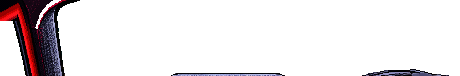
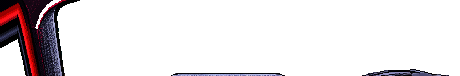
Fúria F4: retrovisor esquerdo por fora (coluna e porta na frente dele); preparação redesenhada para toque (cartões de vaga em duas colunas, barra com setas e botão grandes) (v0.36.0)
Claude-Session: https://claude.ai/code/session_01MLD9VR7gkmY4w6a9beZcp6

Changed region(s): [[0.0, 0.2632, 0.0609, 0.6316]]

diff --git a/src/careerScreens.ts b/src/careerScreens.ts
@@ -348,7 +348,13 @@ function tapGarage(s: AppState, a: Actions, x: number, y: number) {
 // ---------- preparação: peças aftermarket (tuning.ts) ----------
 // Cada linha é uma vaga (pistões, comando, alimentação, indução, escapamento, pneus, suspensão); as
 // setas trocam a peça em vista (a foto, a ficha e o ronco já mostram como fica) e o botão compra/instala.
-const prepRows = (n: number) => Array.from({ length: n }, (_, i): Rect => ({ x: ox() + 4, y: 107 + i * 10.3, w: SAFE_W - 8, h: 9.6 }));
+// toque: as vagas são cartões grandes em duas colunas (tocar escolhe a vaga); a peça da vaga escolhida
+// troca numa barra só, com setas e botão de comprar grandes
+const prepRows = (n: number) => Array.from({ length: n }, (_, i): Rect => ({ x: ox() + 4 + (i % 2) * 158, y: 121 + Math.floor(i / 2) * 17.6, w: 154, h: 16.2 }));
+const prepBar = () => {
+  const x = ox();
+  return { prev: { x: x + 4, y: 97, w: 30, h: 21 } as Rect, next: { x: x + 172, y: 97, w: 30, h: 21 } as Rect, name: { x: x + 36, y: 97, w: 134, h: 21 } as Rect, buy: { x: x + 206, y: 97, w: 110, h: 21 } as Rect };
+};
 const prepButtons = () => {
   const x = ox();
   return { back: { x: x + 4, y: 211, w: 100, h: 15 }, rev: { x: x + 110, y: 211, w: 100, h: 15 }, stock: { x: x + 216, y: 211, w: 100, h: 15 } };
@@ -378,13 +384,13 @@ function drawPrep(c: CanvasRenderingContext2D, s: AppState, car: CarSpec) {
   kicker(c, 'PREPARAÇÃO', x + 4, 20, RED, '#fff');
   headline(c, car.name.toUpperCase(), x + 4, 33, 8, INK);
   classBadge(c, x + 150, 32, view, true, 9);
-  const ph: Rect = { x: x + 4, y: 46, w: 198, h: 58 };
+  const ph: Rect = { x: x + 4, y: 46, w: 198, h: 46 };
   photo(c, ph, () => {
     // lateral, traseira e frente: o rebaixamento aparece nas três
-    drawCarSide(c, ph.x + 1, ph.y + 54, 104, view, paintHex(car.id));
+    drawCarSide(c, ph.x + 1, ph.y + 43, 104, view, paintHex(car.id));
     const look = { color: car.color, rear: car.rear, paint: paintHex(car.id), drop: view.rideDrop };
-    drawCar(c, ph.x + 120, ph.y + 54, 25, look);
-    drawCar(c, ph.x + 147, ph.y + 54, 25, { ...look, front: true });
+    drawCar(c, ph.x + 120, ph.y + 43, 25, look);
+    drawCar(c, ph.x + 147, ph.y + 43, 25, { ...look, front: true });
     // a peça da linha escolhida: ilustração (ou a roda), nome e efeito
     const sl = slotsFor(car)[ui.prepRow], pt = partOf(car, sl.id, ui.prepView[sl.id]);
     const art = pt.wheel ? wheelPng(pt.wheel) : partPng(slotArt(car, sl.id) ?? '');
@@ -393,9 +399,9 @@ function drawPrep(c: CanvasRenderingContext2D, s: AppState, car: CarSpec) {
     const ai = art && svgSprite(art, 32 * RES, 32 * RES);
     if (ai) c.drawImage(ai, ph.x + 163, ph.y + 3, 32, 32);
     const n = sl.parts.findIndex((q) => q.id === pt.id);
-    ink(c, sl.id === 'rodas' ? (n ? `${n} de ${sl.parts.length - 1}` : 'originais') : pt.note, ph.x + 179, ph.y + 40, 4, YELLOW, 'center');
+    ink(c, sl.id === 'rodas' ? (n ? `${n} de ${sl.parts.length - 1}` : 'originais') : pt.note, ph.x + 179, ph.y + 39, 4, YELLOW, 'center');
   }, ['#4a4238', '#a89a86']);
-  const fr: Rect = { x: x + 208, y: 43, w: 108, h: 62 };
+  const fr: Rect = { x: x + 208, y: 43, w: 108, h: 51 };
   box(c, fr, 'COMO FICA');
   // potência pela razão com a ficha (o 'accel' de alguns carros já vem ajustado); 0-100 medido na física
   const cv = (b: Build) => Math.round((parseInt(car.power) * tunedFor(car, lv, DEFAULT_SETUP, b).accel) / car.accel);
@@ -408,24 +414,38 @@ function drawPrep(c: CanvasRenderingContext2D, s: AppState, car: CarSpec) {
   specRows(c, fr, [
     ['Potência', diff(cv(ui.prepView), cv(cur), 'cv')], ['0-100', diff(t100(view), t100(now), 's', 1)],
     ['Máxima', diff(Math.round(view.maxSpeed * KMH), Math.round(now.maxSpeed * KMH), 'km/h')], ['Curva', diff(view.lateralG, now.lateralG, 'g', 2)],
-  ], 11, 15);
+  ], 9, 14);
   const slots = slotsFor(car);
   prepRows(slots.length).forEach((r, i) => {
     const sl = slots[i];
     const vp = partOf(car, sl.id, ui.prepView[sl.id]), installed = (cur[sl.id] ?? '') === vp.id;
     const hot = ui.prepRow === i;
-    c.fillStyle = installed ? '#f6efdd' : '#fff1c8';
+    c.fillStyle = hot ? INK : installed ? '#f6efdd' : '#fff1c8';
     c.fillRect(r.x, r.y, r.w, r.h);
     c.strokeStyle = hot ? RED : 'rgba(26,22,20,0.35)';
-    c.lineWidth = hot ? 1.5 : 1;
+    c.lineWidth = hot ? 2 : 1;
     c.strokeRect(r.x + 0.5, r.y + 0.5, r.w - 1, r.h - 1);
-    ink(c, sl.name.toUpperCase(), r.x + 4, r.y + 2.5, 5, INK);
-    arrow(c, { x: r.x + 76, y: r.y + 0.5, w: 9, h: 8.6 }, 'left');
-    arrow(c, { x: r.x + 188, y: r.y + 0.5, w: 9, h: 8.6 }, 'right');
-    ink(c, vp.name, r.x + 137, r.y + 2.5, 5, vp.id ? RED : INK, 'center');
-    const own = ownsPart(cs, car, sl.id, vp.id), cost = partCost(car, vp);
-    tag(c, { x: r.x + r.w - 104, y: r.y + 0.5, w: 102, h: 8.6 }, installed ? 'INSTALADA' : own ? 'INSTALAR (JÁ É SUA)' : `COMPRAR ${money(cost)}`, !installed && (own || cs.money >= cost), 5);
+    ink(c, sl.name.toUpperCase(), r.x + 4, r.y + 2, 4, hot ? YELLOW : GREY);
+    ink(c, vp.name, r.x + 4, r.y + 8.5, 5, hot ? '#fff' : vp.id ? RED : INK);
+    if (!installed) ink(c, 'EM VISTA', r.x + r.w - 4, r.y + 2, 4, hot ? YELLOW : RED, 'right');
   });
+  // barra da vaga escolhida: ◀ peça ▶ e o botão de comprar/instalar
+  {
+    const pb = prepBar(), sl = slots[ui.prepRow];
+    const vp = partOf(car, sl.id, ui.prepView[sl.id]), installed = (cur[sl.id] ?? '') === vp.id;
+    arrow(c, pb.prev, 'left');
+    arrow(c, pb.next, 'right');
+    c.fillStyle = '#f8f2e2';
+    c.fillRect(pb.name.x, pb.name.y, pb.name.w, pb.name.h);
+    c.strokeStyle = INK;
+    c.lineWidth = 1;
+    c.strokeRect(pb.name.x + 0.5, pb.name.y + 0.5, pb.name.w - 1, pb.name.h - 1);
+    const n = sl.parts.findIndex((q) => q.id === vp.id);
+    ink(c, `${sl.name.toUpperCase()} ${n + 1}/${sl.parts.length}`, pb.name.x + pb.name.w / 2, pb.name.y + 3, 4, GREY, 'center');
+    ink(c, vp.name, pb.name.x + pb.name.w / 2, pb.name.y + 10, 6, vp.id ? RED : INK, 'center');
+    const own = ownsPart(cs, car, sl.id, vp.id), cost = partCost(car, vp);
+    tag(c, pb.buy, installed ? 'INSTALADA' : own ? 'INSTALAR' : `COMPRAR ${money(cost)}`, !installed && (own || cs.money >= cost));
+  }
   const b = prepButtons();
   tag(c, b.back, '◀ OFICINA');
   tag(c, b.rev, 'OUVIR O RONCO', true);
@@ -477,15 +497,15 @@ function tapPrep(s: AppState, car: CarSpec, x: number, y: number) {
   if (inside(x, y, b.back)) return closePrep();
   if (inside(x, y, b.rev)) return prepRev(s, car);
   if (inside(x, y, b.stock)) { ui.prepView = {}; return; }
-  const slots = slotsFor(car);
+  const slots = slotsFor(car), pb = prepBar();
+  if (inside(x, y, pb.prev)) return prepStep(car, slots[ui.prepRow].id, -1);
+  if (inside(x, y, pb.next) || inside(x, y, pb.name)) return prepStep(car, slots[ui.prepRow].id, 1);
+  if (inside(x, y, pb.buy)) return prepInstall(s, car, slots[ui.prepRow].id);
   prepRows(slots.length).forEach((r, i) => {
-    if (!inside(x, y, r)) return;
-    ui.prepRow = i;
-    if (x > r.x + r.w - 106) prepInstall(s, car, slots[i].id);
-    else if (x < r.x + 137) prepStep(car, slots[i].id, -1);
-    else prepStep(car, slots[i].id, 1);
+    if (inside(x, y, { x: r.x - 2, y: r.y - 0.7, w: r.w + 4, h: r.h + 1.4 })) ui.prepRow = i;
   });
 }
+
 function keyPrep(s: AppState, k: MenuKey) {
   const cs = s.career!;
   const car = ownedCars(cs)[ui.garage];

diff --git a/src/cockpit.ts b/src/cockpit.ts
@@ -125,7 +125,7 @@ const COCKPIT_ART: Record<string, CockpitArt> = {
   // de verdade (foto do Victor, tools/ref/f40_gauges.py): velocímetro 0-360 com hodômetros,
   // conta-giros 0-100 x100 com marcas vermelhas, água e turbo embaixo, luzes vermelhas; ponteiros brancos
   f40: { dash: dashF40Png, top: topF40Png, wheel: wheelF40Png, pivot: [128, 105], wheelTop: 12, tells: null,
-    glass: { at: [31, 106], thr: 256 }, radar: [222, 6], glow: '110,230,140', glowK: 0.5, // retrovisor desenhado (tools/qa/add_mirror.py)
+    glass: { at: [20, 105], thr: 256 }, radar: [222, 6] /* por fora: a coluna e a porta ficam na frente dele (tools/ref/f40_mirror_fix.py) */, glow: '110,230,140', glowK: 0.5, // retrovisor desenhado (tools/qa/add_mirror.py)
     // à noite números e marcações acendem em verde (o fundo preto continua preto), ponteiros também
     facesLit: '110,236,140', litNeedles: true,
     faces: [{ src: cp('f40-cluster'), src2: cp('f40-cluster-2x'), x: 44.5, y: 7.5, w: 169, h: 84 },

diff --git a/tools/ref/f40_mirror_fix.py b/tools/ref/f40_mirror_fix.py
@@ -1,0 +1,41 @@
+"""Retrovisor esquerdo da Fúria F4: fica do lado de FORA do carro. O add_mirror.py desenhava por cima da
+coluna e do painel (parecia estar dentro da cabine); aqui ele é desenhado à esquerda e a arte original
+(coluna, painel e porta, de <pasta>/top.png e dash.png, a cabine sem retrovisor) volta por cima: do
+retrovisor só aparece o que se vê pela janela.
+Uso: python3 tools/ref/f40_mirror_fix.py <pasta com top.png e dash.png originais>
+"""
+import os
+import subprocess
+import sys
+
+import numpy as np
+from PIL import Image
+
+HERE = os.path.dirname(__file__)
+C = os.path.join(HERE, '..', '..', 'src/assets/cockpit/f40-')
+
+
+def stack(a, b):
+    return np.concatenate([np.array(Image.open(a).convert('RGBA')), np.array(Image.open(b).convert('RGBA'))])
+
+
+def save(c):
+    Image.fromarray(c[:76]).save(C + 'top.png', optimize=True)
+    Image.fromarray(c[76:]).save(C + 'dash.png', optimize=True)
+
+
+def main():
+    src = sys.argv[1]
+    old = stack(os.path.join(src, 'top.png'), os.path.join(src, 'dash.png'))
+    c = stack(C + 'top.png', C + 'dash.png')
+    c[84:134, 0:64] = old[84:134, 0:64]
+    save(c)
+    subprocess.run([sys.executable, os.path.join(HERE, '..', 'qa', 'add_mirror.py'), 'f40', '9', '91', '42', '119', '24', '131', '#c8141a'], check=True)
+    c = stack(C + 'top.png', C + 'dash.png')
+    op = old[..., 3] > 0
+    c[op] = old[op]
+    save(c)
+
+
+if __name__ == '__main__':
+    main()
